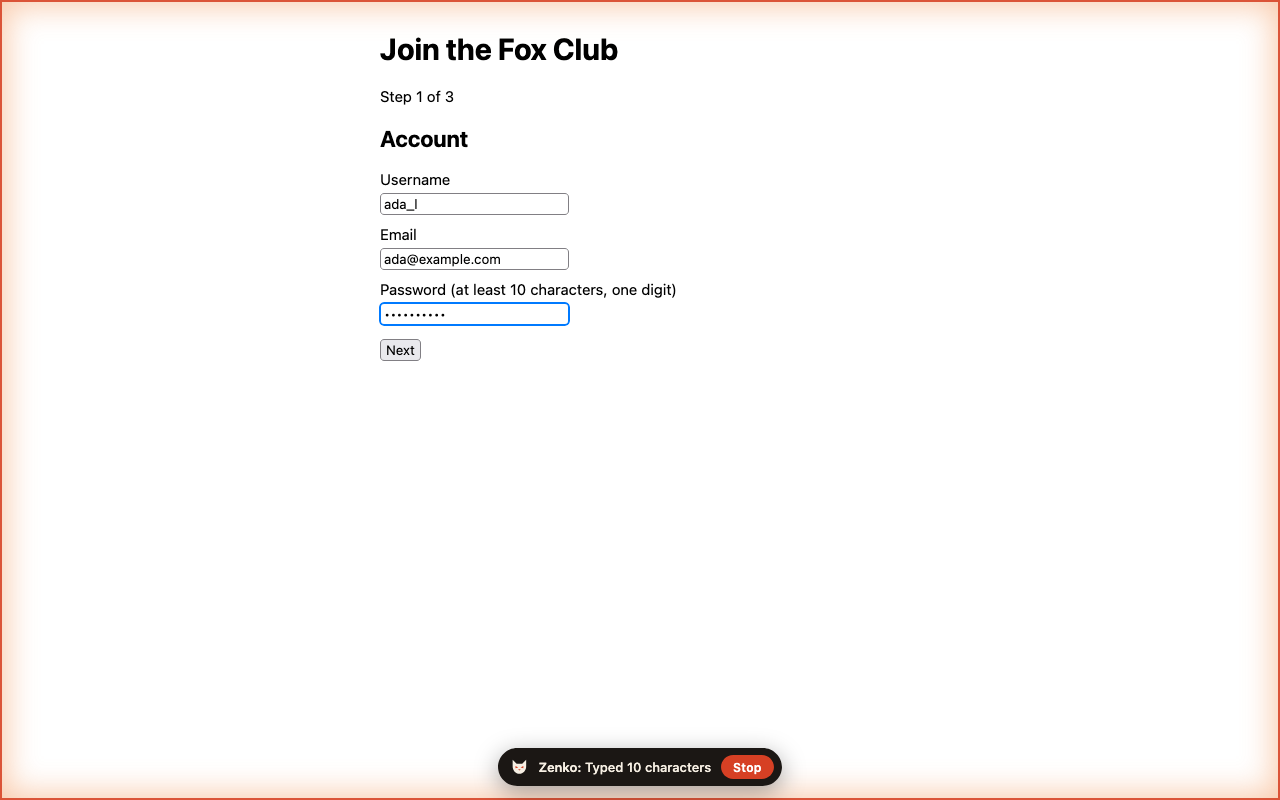
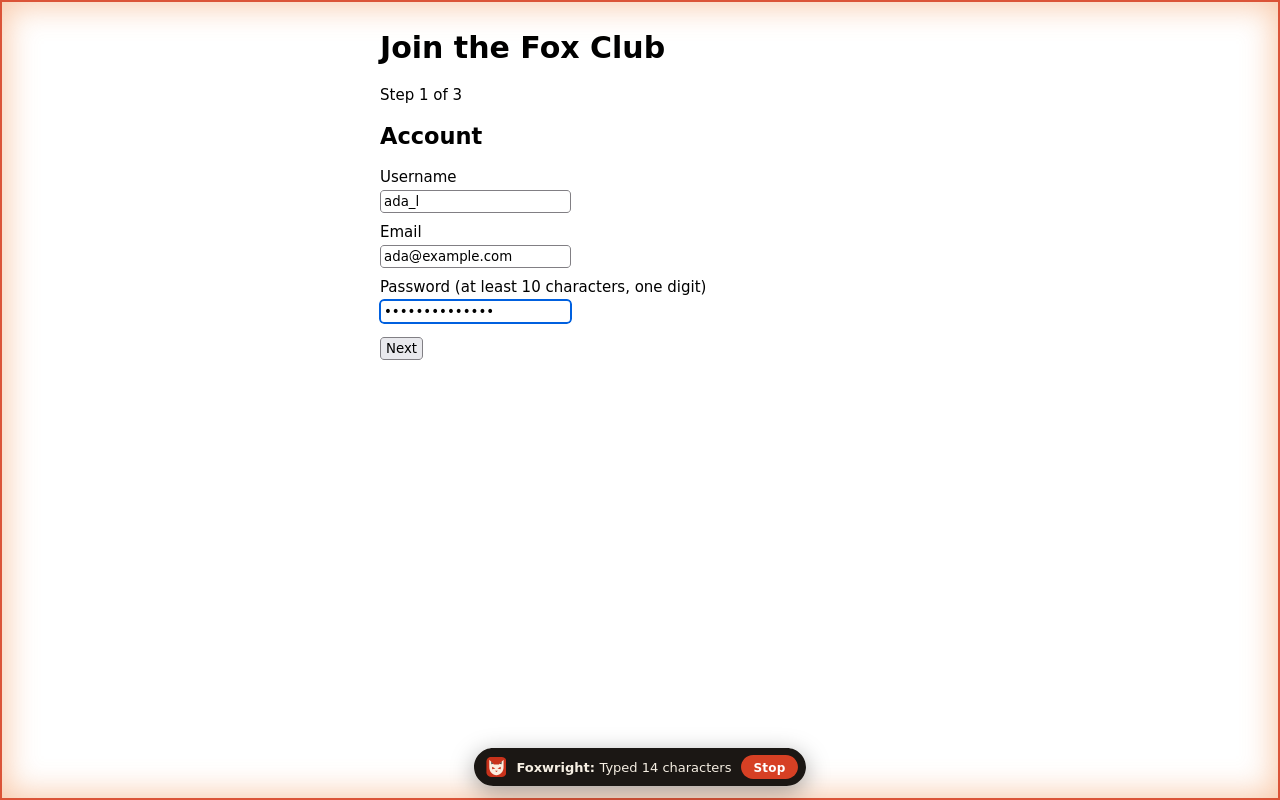
fix(ui): third UI pass: popup, permission window, overlay, contrast, CLI output (#25)
* fix(popup): put Pause at the top so it is never below the fold

Firefox caps toolbar popups at 600px. Connected with a few sites the popup is
about 900px tall, which left Pause the agent below the fold.

* fix(prompt): give the longer-lasting answers a quieter row

Deny and Allow this session stay the main pair. Allow for 1 hour and Always
allow are smaller and lighter, so the most permanent answer no longer looks
as important as Deny.

* fix(overlay): visible focus on Stop, reduced motion, edge on dark sites

all: unset removed the Stop button's focus ring, the glow pulsed even with
reduced motion on, and the pill was 1.05:1 against a #121212 page.

* fix(ui): use a contrast-checked text red in dark mode

The setup and Activity pages used the accent red for links, Denied results
and Clear log (4.15:1 in dark mode). They now share the popup's --red-ink.
The popup's focus ring uses it too (was 2.98:1 in dark mode).

* fix(cli): print colour only on a terminal and honour NO_COLOR

setup and doctor wrote ANSI codes even when piped, so agents running doctor
and pasted output got raw escape codes.

* fix(cli): shorter next steps after setup connects Claude

When --claude-code or --claude-desktop succeeded, step 2 now names that app
and points elsewhere for the others instead of listing every client. The
doctor hint is npx foxwright-firefox doctor. Re-runs no longer remove and
re-add setup's own Zenko-compat registration.
[…]

diff --git a/host/src/setup.js b/host/src/setup.js
@@ -17,12 +17,16 @@ const STORE_URL = 'https://addons.mozilla.org/firefox/addon/foxwright/';
 const CLIENTS_URL = 'https://github.com/william-ricchiuti/FoxWright/blob/main/docs/CLIENTS.md';
 const SETUP_CMD = 'npx foxwright-firefox setup';
 const VERSION = typeof __FOXWRIGHT_VERSION__ !== 'undefined' ? __FOXWRIGHT_VERSION__ : '0.0.0';
+// Colour only on a terminal, and never with NO_COLOR (https://no-color.org): AI agents, logs and
+// pasted output get plain text instead of escape codes.
+const color = !!process.stdout.isTTY && !process.env.NO_COLOR;
+const sgr = (code, s) => (color ? `\x1b[${code}m${s}\x1b[0m` : s);
 const c = {
-  ok: (s) => `\x1b[32m✓\x1b[0m ${s}`,
-  bad: (s) => `\x1b[31m✗\x1b[0m ${s}`,
-  warn: (s) => `\x1b[33m!\x1b[0m ${s}`,
-  b: (s) => `\x1b[1m${s}\x1b[0m`,
-  dim: (s) => `\x1b[2m${s}\x1b[0m`,
+  ok: (s) => `${sgr(32, '✓')} ${s}`,
+  bad: (s) => `${sgr(31, '✗')} ${s}`,
+  warn: (s) => `${sgr(33, '!')} ${s}`,
+  b: (s) => sgr(1, s),
+  dim: (s) => sgr(2, s),
 };
 
 function appDir() {
@@ -347,12 +351,22 @@ function removeOldInstall(old, label, { quiet = false } = {}) {
   const oldDir = path.join(home, '.' + old);
   const oldApp = path.join(oldDir, 'app', old + '.mjs');
   const ours = (text) => typeof text === 'string' && EXTENSION_IDS.some(id => text.includes(id));
+  // setup's own registration under the old name (for 0.6 extensions) starts the current helper:
+  // it's rewritten below, so removing it here would only print "Removed…" on every re-run.
+  const current = (text) => {
+    try {
+      return JSON.parse(text).path === wrapperPath();
+    } catch {
+      return false;
+    }
+  };
   // Firefox native-messaging registrations named after the old name that list our extension ids.
   const dirs = [nativeManifestDir(), ...extraManifestDirs().map(([, d]) => d)];
   for (const d of dirs) {
     const f = path.join(d, old + '.json');
     try {
-      if (ours(fs.readFileSync(f, 'utf8'))) {
+      const text = fs.readFileSync(f, 'utf8');
+      if (ours(text) && !current(text)) {
         fs.rmSync(f, { force: true });
         say(`Removed the old ${label} registration ${f}`);
       }
@@ -362,7 +376,8 @@ function removeOldInstall(old, label, { quiet = false } = {}) {
     try {
       const out = execFileSync('reg', ['query', 'HKCU\\Software\\Mozilla\\NativeMessagingHosts\\' + old, '/ve'], { encoding: 'utf8', stdio: ['ignore', 'pipe', 'ignore'] });
       const m = /REG_SZ\s+(.+)/.exec(out);
-      if (m && ours(fs.readFileSync(m[1].trim(), 'utf8'))) {
+      const text = m ? fs.readFileSync(m[1].trim(), 'utf8') : '';
+      if (ours(text) && !current(text)) {
         execFileSync('reg', ['delete', 'HKCU\\Software\\Mozilla\\NativeMessagingHosts\\' + old, '/f'], { stdio: 'ignore' });
         say(`Removed the old ${label} registry entry.`);
       }
@@ -603,6 +618,7 @@ export async function setup(flags) {
   // 4. Hook up AI clients. A failure here never undoes the steps above: say what to run instead.
   const { command, args } = mcpCommand();
   const claudeCodeCmd = displayCmd(['claude', 'mcp', 'add', '--scope', 'user', 'foxwright', '--', command, ...args]);
+  const hooked = []; // AI clients setup connected just now
   if (flags.includes('--claude-code') || flags.includes('--all')) {
     const claude = which('claude');
     if (claude) {
@@ -612,6 +628,7 @@ export async function setup(flags) {
       try {
         runClaude(claude, ['mcp', 'add', '--scope', 'user', 'foxwright', '--', command, ...args], { stdio: 'inherit' });
         console.log(c.ok('Added Foxwright to Claude Code (user scope).'));
+        hooked.push('Claude Code');
       } catch (e) {
         console.log(c.warn(`Couldn't add Foxwright to Claude Code (${e.message.split('\n')[0]}). Run this yourself:\n    ${claudeCodeCmd}`));
       }
@@ -637,6 +654,7 @@ export async function setup(flags) {
           fs.copyFileSync(cfgPath, cfgPath + '.bak');
         fs.writeFileSync(cfgPath, JSON.stringify(cfg, null, 2) + '\n');
         console.log(c.ok(`Added Foxwright to Claude Desktop (${cfgPath}). Quit Claude Desktop completely (not just its window) and open it again to load it.`));
+        hooked.push('Claude Desktop');
       } catch (e) {
         console.log(c.warn(`Couldn't add Foxwright to Claude Desktop (${e.message}). Add it to ${cfgPath} yourself (see below).`));
       }
@@ -666,12 +684,12 @@ sometimes days after a helper release (Mozilla reviews each one). An older exten
   const vscode = isWin
     ? `add to .vscode\\mcp.json (or the file "MCP: Open User Configuration" opens) under "servers":  "foxwright": ${JSON.stringify({ type: 'stdio', command, args })}`
     : `code --add-mcp ${shellQuote(JSON.stringify({ name: 'foxwright', type: 'stdio', command, args }))}`;
-  console.log(`
-${c.b('Next steps')}
-  1. Install the Foxwright extension in Firefox (152+): ${STORE_URL}
-     If it's already installed, it finds this helper by itself within a few seconds
-     (or press "Try again" in its toolbar popup). The toolbar fox loses its "!" badge.
-  2. Connect your AI app, then restart it:
+  // Every client's settings, unless setup just connected the one the person asked for.
+  const clientSteps = hooked.length
+    ? `  2. Restart ${hooked.join(' and ')} so it loads Foxwright.
+     Other AI apps (Codex, Cursor, VS Code, Gemini CLI, Windsurf, Zed): run ${c.b(SETUP_CMD)}
+     without a flag to print their settings, or see ${CLIENTS_URL}`
+    : `  2. Connect your AI app, then restart it:
      ${c.b('Claude Code:')}  ${claudeCodeCmd}
      ${c.b('Codex:')}        ${displayCmd(['codex', 'mcp', 'add', 'foxwright', '--', command, ...args])}
                    then add  tool_timeout_sec = 180  under [mcp_servers.foxwright] in ~/.codex/config.toml
@@ -683,7 +701,13 @@ ${c.b('Next steps')}
        add inside "mcpServers":  "foxwright": ${entry}
      ${c.b('Zed:')} the same entry inside "context_servers" in its settings.json.
      Where each app keeps its settings: ${CLIENTS_URL}
-     ${c.dim('(setup --claude-code / --claude-desktop / --all connects Claude for you)')}
+     ${c.dim('(setup --claude-code / --claude-desktop / --all connects Claude for you)')}`;
+  console.log(`
+${c.b('Next steps')}
+  1. Install the Foxwright extension in Firefox (152+): ${STORE_URL}
+     If it's already installed, it finds this helper by itself within a few seconds
+     (or press "Try again" in its toolbar popup). The toolbar fox loses its "!" badge.
+${clientSteps}
   3. Ask your AI app: "Use Foxwright to open https://example.com and tell me the main heading."
      Firefox asks you to approve the site first.
 
@@ -691,7 +715,7 @@ ${c.b('Next steps')}
        ${ffCmd} --remote-debugging-port=9222
      Foxwright detects it automatically. See the README for the trade-offs.
 
-  Check everything with: ${c.b(displayCmd([command, appScript(), 'doctor']))}
+  Check everything with: ${c.b('npx foxwright-firefox doctor')}
 `);
 }
 

diff --git a/extension/welcome/page.css b/extension/welcome/page.css
@@ -2,10 +2,12 @@
 :root {
   --paper: #f7f0e4; --paper-2: #fffaf2; --ink: #1b1714; --ink-2: #4a3f36; --muted: #7a6b5d;
   --red: #c8321b; --red-2: #d64024; --line: rgba(27, 23, 20, .12); --ok: #3f7d4e; --orange: #c86a1b;
+  /* text red that keeps 4.5:1 on the cards in both schemes (same as the popup) */
+  --red-ink: #b02a14;
   color-scheme: light dark;
 }
 @media (prefers-color-scheme: dark) {
-  :root { --paper: #1c1815; --paper-2: #26211d; --ink: #f3ebde; --ink-2: #d4c8b8; --muted: #a39584; --line: rgba(243, 235, 222, .12); --ok: #6fb07f; --red: #e0533a; --red-2: #e86a50; --orange: #e08a3a; }
+  :root { --paper: #1c1815; --paper-2: #26211d; --ink: #f3ebde; --ink-2: #d4c8b8; --muted: #a39584; --line: rgba(243, 235, 222, .12); --ok: #6fb07f; --red: #e0533a; --red-2: #e86a50; --orange: #e08a3a; --red-ink: #f08a73; }
 }
 * { box-sizing: border-box; }
 [hidden] { display: none !important; }
@@ -19,6 +21,7 @@ header { display: flex; gap: 14px; align-items: center; margin-bottom: 18px; }
 h1 { margin: 0; font-size: 22px; letter-spacing: .01em; }
 .sub { margin: 2px 0 0; color: var(--ink-2); }
 h2 { margin: 0 0 8px; font-size: 13px; color: var(--ink-2); }
+.step h2 { font-size: 15px; color: var(--ink); }
 .card { background: var(--paper-2); border: 1px solid var(--line); border-radius: 12px; padding: 14px 16px; margin-bottom: 12px; }
 .card p { margin: 0 0 8px; }
 .card p:last-child { margin-bottom: 0; }
@@ -33,10 +36,10 @@ button {
   border: 1px solid var(--line); background: var(--paper); color: var(--ink);
 }
 button.primary { background: var(--ink); color: var(--paper); border-color: var(--ink); }
-button.danger { color: var(--red); border-color: var(--red); }
+button.danger { color: var(--red-ink); border-color: var(--red-ink); }
 button:hover { filter: brightness(.95); }
-button:focus-visible, a:focus-visible, select:focus-visible, input:focus-visible, summary:focus-visible { outline: 2px solid var(--red); outline-offset: 2px; }
-a { color: var(--red); }
+button:focus-visible, a:focus-visible, select:focus-visible, input:focus-visible, summary:focus-visible { outline: 2px solid var(--red-ink); outline-offset: 2px; }
+a { color: var(--red-ink); }
 .status { display: flex; align-items: center; gap: 8px; font-weight: 600; font-size: 15px; margin: 0 0 6px; }
 .dot { width: 10px; height: 10px; border-radius: 50%; background: var(--muted); flex: none; }
 .dot.ok { background: var(--ok); box-shadow: 0 0 0 3px rgba(63,125,78,.18); }

diff --git a/extension/log/log.css b/extension/log/log.css
@@ -1,7 +1,7 @@
 main { max-width: 820px; }
 .controls { margin-bottom: 10px; }
 .spacer { flex: 1; }
-select { font: inherit; padding: 4px 8px; border: 1px solid var(--line); border-radius: 8px; background: var(--paper); color: var(--ink); max-width: 100%; }
+select { font: inherit; padding: 4px 8px; border: 1px solid var(--line); border-radius: 8px; background: var(--paper); color: var(--ink); max-width: min(100%, 18em); }
 .toggle { display: flex; gap: 8px; align-items: center; margin: 0 0 8px; cursor: pointer; }
 .toggle input { accent-color: var(--red); }
 #log { list-style: none; margin: 0; padding: 0; background: var(--paper-2); border: 1px solid var(--line); border-radius: 12px; }
@@ -17,7 +17,7 @@ select { font: inherit; padding: 4px 8px; border: 1px solid var(--line); border-
 #log .what small { color: var(--muted); margin-left: 6px; }
 #log .res { font-size: 12px; font-weight: 600; white-space: nowrap; }
 .res.allowed, .res.once, .res.always { color: var(--ok); }
-.res.denied, .res.paused, .res.failed, .res.timeout { color: var(--red); }
+.res.denied, .res.paused, .res.failed, .res.timeout { color: var(--red-ink); }
 .res.asked, .res.dismissed { color: var(--muted); }
 @media (max-width: 600px) {
   #log li { grid-template-columns: 1fr auto; }

diff --git a/extension/popup/popup.css b/extension/popup/popup.css
@@ -43,7 +43,7 @@ button {
   border: 1px solid var(--line); background: var(--paper); color: var(--ink);
 }
 button.primary { background: var(--ink); color: var(--paper); border-color: var(--ink); margin-left: auto; }
-button.ghost { width: 100%; margin-top: 8px; }
+button.ghost { width: 100%; margin: 0 0 10px; }
 button.x { padding: 1px 7px; font-weight: 500; color: var(--muted); }
 button:hover { filter: brightness(.95); }
 .row { display: flex; justify-content: space-between; padding: 3px 0; }
@@ -69,6 +69,6 @@ button.link { background: none; border: 0; padding: 0; font-weight: 500; color: 
 .btns button.link { margin-left: auto; }
 .fine button.link { font-size: inherit; }
 .tag.warn { color: var(--warn-ink); }
-button:focus-visible, a:focus-visible, input:focus-visible { outline: 2px solid var(--red); outline-offset: 2px; }
+button:focus-visible, a:focus-visible, input:focus-visible { outline: 2px solid var(--red-ink); outline-offset: 2px; }
 .card.paused button:focus-visible { outline-color: #fff7ee; }
 .btns button.primary { margin-left: 0; }

diff --git a/extension/popup/popup.html b/extension/popup/popup.html
@@ -14,6 +14,8 @@
     </div>
   </header>
 
+  <button id="pause" class="ghost" type="button" aria-keyshortcuts="Alt+Shift+K">Pause the agent <small id="pause-key">(Alt+Shift+K)</small></button>
+
   <section id="paused" class="card paused" hidden aria-labelledby="paused-title">
     <p id="paused-title" class="paused-title">Foxwright is paused</p>
     <p>The agent can't do anything until you resume.</p>
@@ -57,7 +59,6 @@
     <div class="row"><span>Helper</span><span id="helper" class="tag">—</span></div>
     <div class="row"><span>Agent tabs</span><span id="tabs" class="tag">0</span></div>
     <div class="row"><label for="bname">This browser's name</label><input id="bname" maxlength="40" spellcheck="false" title="Shown to the AI when several Firefox profiles are connected"></div>
-    <button id="pause" class="ghost" type="button" aria-keyshortcuts="Alt+Shift+K">Pause the agent <small id="pause-key">(Alt+Shift+K)</small></button>
   </section>
 
   <footer>

diff --git a/src/content/overlay.ts b/src/content/overlay.ts
@@ -31,7 +31,7 @@ const CSS = `
   display: flex; align-items: center; gap: 10px; padding: 7px 8px 7px 12px;
   background: #1b1714; color: #f6efe3; border-radius: 999px;
   font: 500 13px/1.2 ui-sans-serif, -apple-system, "Segoe UI", system-ui, sans-serif;
-  box-shadow: 0 6px 24px rgba(0,0,0,.35), 0 0 0 1px rgba(255,255,255,.06);
+  box-shadow: 0 6px 24px rgba(0,0,0,.35), 0 0 0 1px rgba(255,255,255,.2);
 }
 .pill.on { opacity: 1; transform: translateX(-50%) translateY(0); pointer-events: auto; }
 .pill.top { bottom: auto; top: 14px; }
@@ -43,6 +43,11 @@ const CSS = `
   background: #d64024; color: #fff; font-weight: 600; font-size: 12px; letter-spacing: .02em;
 }
 .pill button:hover { background: #ec5534; }
+.pill button:focus-visible { outline: 2px solid #fff; outline-offset: 2px; }
+@media (prefers-reduced-motion: reduce) {
+  .glow.on { animation: none; }
+  .glow, .pill { transition: none; }
+}
 `;
 
 function foxMark(): SVGSVGElement {

diff --git a/extension/prompt/prompt.css b/extension/prompt/prompt.css
@@ -14,5 +14,7 @@ body.prompt h1 { font-size: 17px; }
 .actions button { padding: 8px 12px; }
 .actions button.primary { margin-left: 0; }
 #deny { color: var(--red-ink); }
+/* The longer-lasting answers are the exception: a quieter row under the main pair. */
+.actions #hour, .actions #always { padding: 5px 10px; font-size: 12.5px; font-weight: 500; background: transparent; color: var(--ink-2); }
 .note { margin-top: 10px; text-align: center; }
 .actions button:disabled { opacity: .55; cursor: default; }
